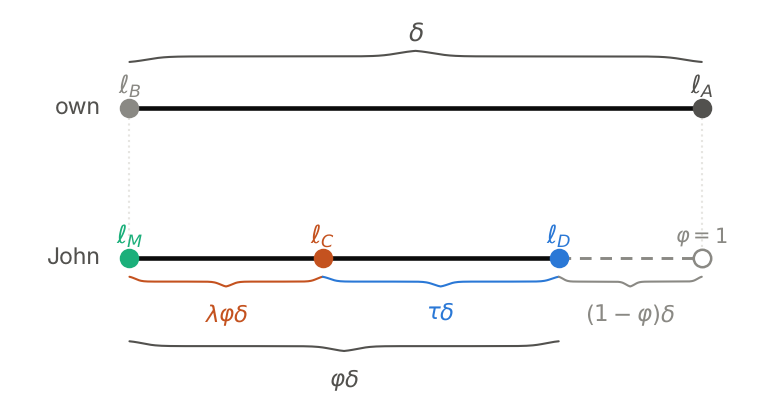
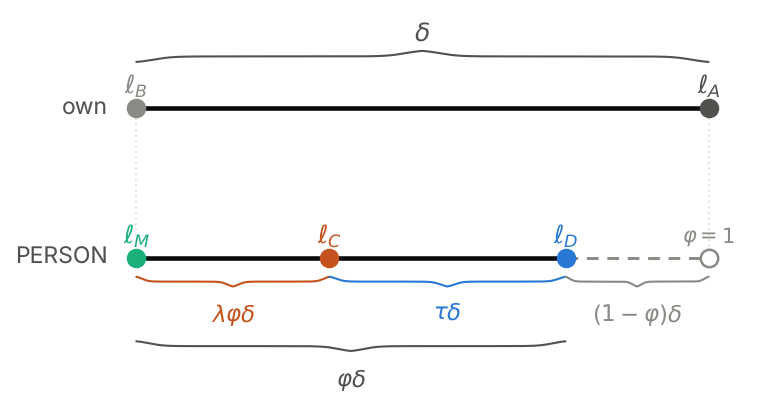
Call the agent PERSON in descriptions and figures
The design text, figure labels and the run report now say PERSON for the
agent whose belief is asked about. The prompts and condition keys still use
John; the record notes the name the prompts use.

Claude-Session: https://claude.ai/code/session_01H4z53Ysck8qj7Ucesu3nYZ

diff --git a/second_order/figures.py b/second_order/figures.py
@@ -17,7 +17,7 @@ Headline and diagnostics:
 After the paper's figures:
 
 * ``curse_thresholds``: implied against instructed decision thresholds for the
-  model's own fit family and John's (Figure 5);
+  model's own fit family and PERSON's (Figure 5);
 * ``curse_decision_curves``: the screening decision against the latent belief,
   per condition (Figure 3).
 
@@ -175,7 +175,7 @@ def groups_of(frame, keys=("model", "dataset", "method")):
 
 
 def curse_thresholds(thr):
-    """Implied vs instructed decision thresholds, own fit family against John's (paper Figure 5)."""
+    """Implied vs instructed decision thresholds, own fit family against PERSON's (paper Figure 5)."""
     thr = thr[thr.nominal_threshold.notna()]
     if thr.empty:
         return
@@ -230,7 +230,7 @@ def curse_bayes(points):
     lim = np.nanmax(np.abs(np.r_[points.value, points.bayes_logit])) * 1.05
     for i, model in enumerate(models):
         for j, (title, roles) in enumerate((("own beliefs (A, B, B_F)", ("A", "B")),
-                                            ("about John (D, M, C)", ("D", "M", "C")))):
+                                            ("about PERSON (D, M, C)", ("D", "M", "C")))):
             ax = axes[i][j]
             ax.plot([-lim, lim], [-lim, lim], color=MUTED, lw=0.8, ls=":")
             for role in roles:
@@ -350,7 +350,7 @@ def brace(ax, x0: float, x1: float, y: float, height: float, *, color=INK2, lw: 
 
 
 def draw_decomposition(ax, lam: float, phi: float) -> None:
-    """The model's own gap (top) and the belief attributed to John (bottom), with delta = 1.
+    """The model's own gap (top) and the belief attributed to PERSON (bottom), with delta = 1.
 
     l_B = l_M = 0, l_A = 1, l_D = phi, l_C = phi * lambda; dashed: D's shortfall from phi = 1.
     """
@@ -369,7 +369,7 @@ def draw_decomposition(ax, lam: float, phi: float) -> None:
     ax.scatter([1], [bottom], s=70, facecolor="white", edgecolor=MUTED, lw=1.2, zorder=3)
     ax.text(1, bottom + 0.1, "$\\varphi = 1$", color=MUTED, ha="center", fontsize=10)
     ax.text(-0.05, top, "own", ha="right", va="center", fontsize=11, color=INK2)
-    ax.text(-0.05, bottom, "John", ha="right", va="center", fontsize=11, color=INK2)
+    ax.text(-0.05, bottom, "PERSON", ha="right", va="center", fontsize=11, color=INK2)
     brace(ax, 0, 1, top + 0.3, 0.08)
     ax.text(0.5, top + 0.45, "$\\delta$", ha="center", fontsize=12, color=INK2)
     for x0, x1, label, color in ((0, c, "$\\lambda\\varphi\\delta$", C_COLOR), (c, d, "$\\tau\\delta$", D_COLOR),

diff --git a/second_order/runner_record.py b/second_order/runner_record.py
@@ -30,7 +30,8 @@ from second_order.bespoke import FORMAT, table as bespoke_table
 from second_order.comprehension import is_followup
 from second_order.conditions import CONDITIONS, SETTINGS, field_label, pair_spec
 from second_order.fit_pooled import PROBABILITY_EPSILON, QUADRATURE_POINTS, SUBSETS
-from second_order.prompts_second_order import OUTPUTS, bin_boundaries, comprehension, output_kind, prompt_for, specs
+from second_order.prompts_second_order import (OUTPUTS, PERSON, bin_boundaries, comprehension, output_kind,
+                                               prompt_for, specs)
 from second_order.report import display, md_table
 from second_order.run_generation import sampling, settings_signature, template_kwargs
 
@@ -38,7 +39,7 @@ ESTIMATOR = """# Estimators, as implemented
 
 All beliefs are on the log-odds scale. Stated probabilities are clipped to [0.01, 0.99]
 before the logit. Latent beliefs are posterior means of logit z from the pooled
-Smolin & Wilder fit of the believer's family (own belief: A and every B; John: every C,
+Smolin & Wilder fit of the believer's family (own belief: A and every B; PERSON: every C,
 M and D). Per case and setting (partial = pair S4, false belief = pair F):
 
     x   = l_A  - l_B                    the model's own gap (main run, replicate 0)
@@ -91,7 +92,7 @@ def constants() -> dict:
         "design": {
             "settings": SETTINGS, "conditions": {c: asdict(CONDITIONS[c]) for c in cfg["experiment"]["conditions"]},
             "replicates": cfg["experiment"]["replicates"], "comprehension": cfg["experiment"]["comprehension"],
-            "camerer_w": cfg["experiment"]["camerer_w"], "agent": "John",
+            "camerer_w": cfg["experiment"]["camerer_w"], "person_name_in_prompts": PERSON["john"]["A"],
         },
         "ckd": available(lambda: {
             "cases": cfg["main_cases"], "withheld_fields_partial": {f: field_label(f) for f in fields_s4},

diff --git a/second_order/curse.py b/second_order/curse.py
@@ -22,7 +22,7 @@ and ``direct`` for CKD, ``direct`` for bespoke), on the main analysis set:
 * ``scatter.csv``: per case, x = l_A - l_B, l_C - l_M and l_D - l_M (figures).
 * ``thresholds.csv``: CKD decision thresholds implied by each pooled fit (where
   P(decide) = 1/2, i.e. z = sigmoid(-a/b)) against the instructed ones, for the
-  model's own family and John's (the paper's Figure 5, per fit family).
+  model's own family and PERSON's (the paper's Figure 5, per fit family).
 * ``decision_curves.csv``: the plain screening decision smoothed against the
   all-output posterior mean z per condition (Nadaraya-Watson, Gaussian kernel,
   bandwidth 0.10, all complete cases, pointwise 95% case-bootstrap bands; the

diff --git a/README.md b/README.md
@@ -7,19 +7,19 @@ Wilder, *Beliefs and Behavior in Language Models*
 
 ## The experiment
 
-The model reads a patient's chart. John, a physician as capable as the model, has a copy that
+The model reads a patient's chart. PERSON, a physician as capable as the model, has a copy that
 is missing some fields.
 
 | We ask the model | Condition | Example |
 | --- | --- | --- |
 | Its own view, from the full chart | A | 30% |
-| Its own view, from John's copy | B | 12% |
-| What John thinks; it sees only John's copy | M | 13% |
-| What John thinks; it sees the full chart | C | 25% |
-| What John thinks, if John had the full chart | D | 28% |
+| Its own view, from PERSON's copy | B | 12% |
+| What PERSON thinks; it sees only PERSON's copy | M | 13% |
+| What PERSON thinks; it sees the full chart | C | 25% |
+| What PERSON thinks, if PERSON had the full chart | D | 28% |
 
 **Leakage** $\lambda$ is where C falls between M and D in log-odds $\ell$: $0$ means the model
-kept its private evidence out of John's belief, $1$ means it all leaked in. Here
+kept its private evidence out of PERSON's belief, $1$ means it all leaked in. Here
 $\lambda = (\ell_C - \ell_M)/(\ell_D - \ell_M) \approx 0.84$; people score about $0.51$
 (Camerer, Loewenstein and Weber, 1989).
 
@@ -35,10 +35,10 @@ $$
 $$
 
 where $\beta_C$ and $\beta_D$ are the slopes of $\ell_C - \ell_M$ and $\ell_D - \ell_M$ on $x$. $\rho$
-corrects for noise in $x$, $\varphi$ is how strongly John's belief follows the evidence, and $\tau$
+corrects for noise in $x$, $\varphi$ is how strongly PERSON's belief follows the evidence, and $\tau$
 is a theory-of-mind score.
 
-The study runs two settings, John missing evidence and John told something false, on two
+The study runs two settings, PERSON missing evidence and PERSON told something false, on two
 datasets: the paper's 500 kidney-disease cases and a set of fictional puzzles with known Bayes
 answers ([`docs/BESPOKE.md`](docs/BESPOKE.md)). The full design is in
 [`docs/IMPLEMENTATION_NOTES.md`](docs/IMPLEMENTATION_NOTES.md).

diff --git a/docs/IMPLEMENTATION_NOTES.md b/docs/IMPLEMENTATION_NOTES.md
@@ -126,7 +126,8 @@ analyses: coherence, probes and the pilot, whose code is in
 ## Conditions
 
 All conditions live in one table, `second_order/conditions.py`. Each has a
-**role**, a **framing** (the model itself, John, or the user) and a **pair**.
+**role**, a **framing** (the model itself, PERSON, or the user) and a **pair**. PERSON is the
+agent whose belief is asked about; the prompts currently name them John.
 
 | Role | Whose belief | Model is shown | Agent holds |
 |---|---|---|---|
@@ -187,7 +188,7 @@ lists conditions.
 
 - **One pooled fit per family.** Conditions with identical instructions
   share item parameters and one latent prior: the model's own belief (A and
-  every B), John's belief (D, every C, every M), the user's belief. Same
+  every B), PERSON's belief (D, every C, every M), the user's belief. Same
   model, optimiser and settings as the first-order main fit; item
   parameters from train rows, early stopping on validation rows. A
   `separate` variant fits each condition alone as a robustness check.
@@ -211,7 +212,7 @@ lists conditions.
   own view shows there, not in λ); κ (`kappa_halves`), how strongly answers
   about the agent follow evidence when nothing is hidden; tracking
   τ = κ(1 − λ) (`tau_halves`), available without a matched control; λ within
-  thirds of |x|; contrasts between pairs (F − H, user − John, ladder rungs
+  thirds of |x|; contrasts between pairs (F − H, user − PERSON, ladder rungs
   against S4). These are the halves-based forms; the curse-of-knowledge
   experiment's φ and τ come from a second run (above).
 - **Ratio rule.** A ratio is left blank when its denominator's interval
@@ -236,7 +237,7 @@ lists conditions.
 - **Original estimator, through the latent fit** (no compression). n = 500,
   2,000 resamples, normalised λ:
 
-  | True λ | John | User |
+  | True λ | PERSON | User |
   |---|---|---|
   | 0 | 0.017 [−0.045, 0.075] | −0.049 [−0.119, 0.012] |
   | 0.3 | 0.280 [0.220, 0.336] | 0.271 [0.209, 0.329] |

diff --git a/STRUCTURE.md b/STRUCTURE.md
@@ -178,7 +178,7 @@ command-line interface (`python -m second_order.<module>`); settings are in
 | `run_generation.py` | Cached, resumable generation (vLLM, transformers, synthetic, Bedrock, OpenAI, MLX) with a cost-approval gate; second runs, samples and two-turn comprehension items; the cache refuses responses made with other prompts or settings |
 | `synthetic.py` | The `synthetic` backend: response text from known λ, φ and noise |
 | `responses.py` | Parses cached responses (after removing `<think>` blocks); complete-case matrices; seeded splits for local models; retention; comprehension scoring |
-| `fit_pooled.py` | One pooled latent fit per family (own belief, John, user); posteriors for each output subset |
+| `fit_pooled.py` | One pooled latent fit per family (own belief, PERSON, user); posteriors for each output subset |
 | `measurement.py` | Sampling from a fitted measurement model; shrinkage calibration |
 | `phase3.py` | Driver: parse, fit, export latents and beliefs, retention, comprehension, transcripts |
 | `beliefs.py` | The shared belief format every method writes and the analysis reads |

diff --git a/docs/RUNBOOK.md b/docs/RUNBOOK.md
@@ -168,7 +168,7 @@ Variants:
 | `curse_case_leakage` | Per-case leakage (l_C − l_M) / (l_D − l_M) |
 | `curse_comprehension` | λ on all answers and on comprehension-passing answers |
 | `curse_decision_curves` | The screening decision against the latent belief per condition (after the paper's Figure 3) |
-| `curse_thresholds` | Implied against instructed decision thresholds, own fit and John's (after Figure 5) |
+| `curse_thresholds` | Implied against instructed decision thresholds, own fit and PERSON's (after Figure 5) |
 | `curse_bayes` | Bespoke answers against the Bayes answer of the believer's evidence |
 | `retention` | Complete-call retention by condition |
 
